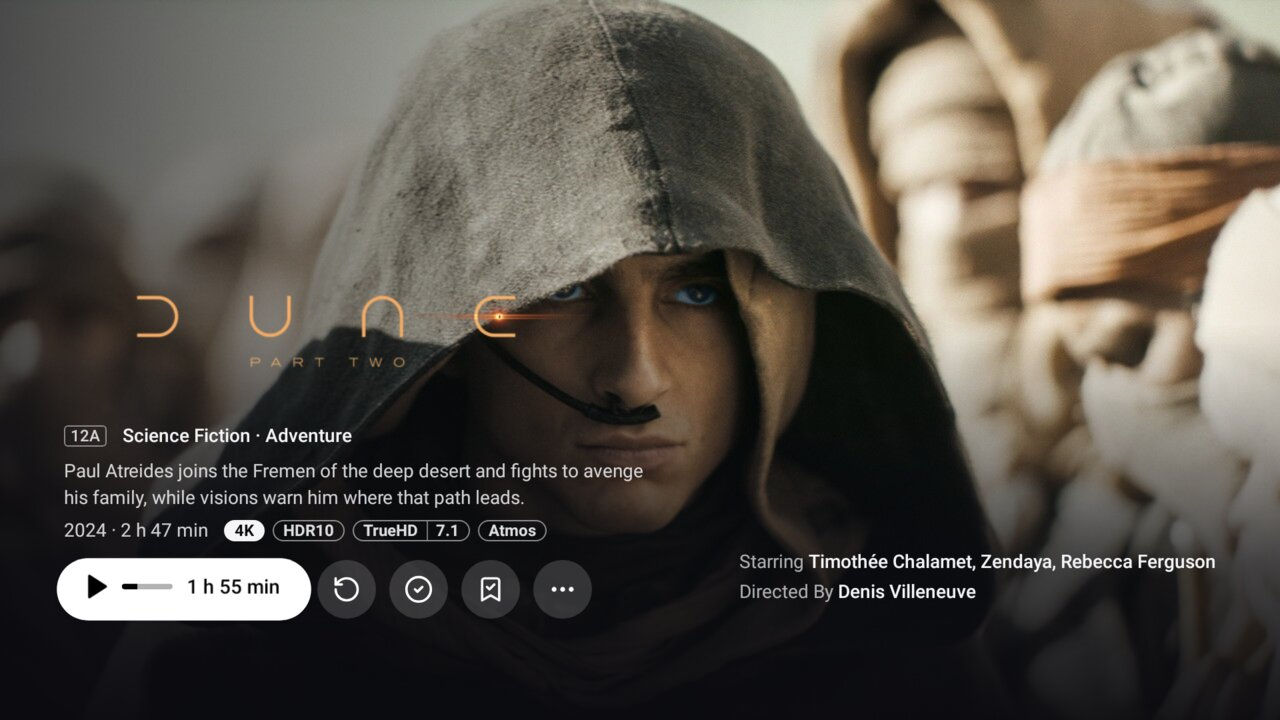
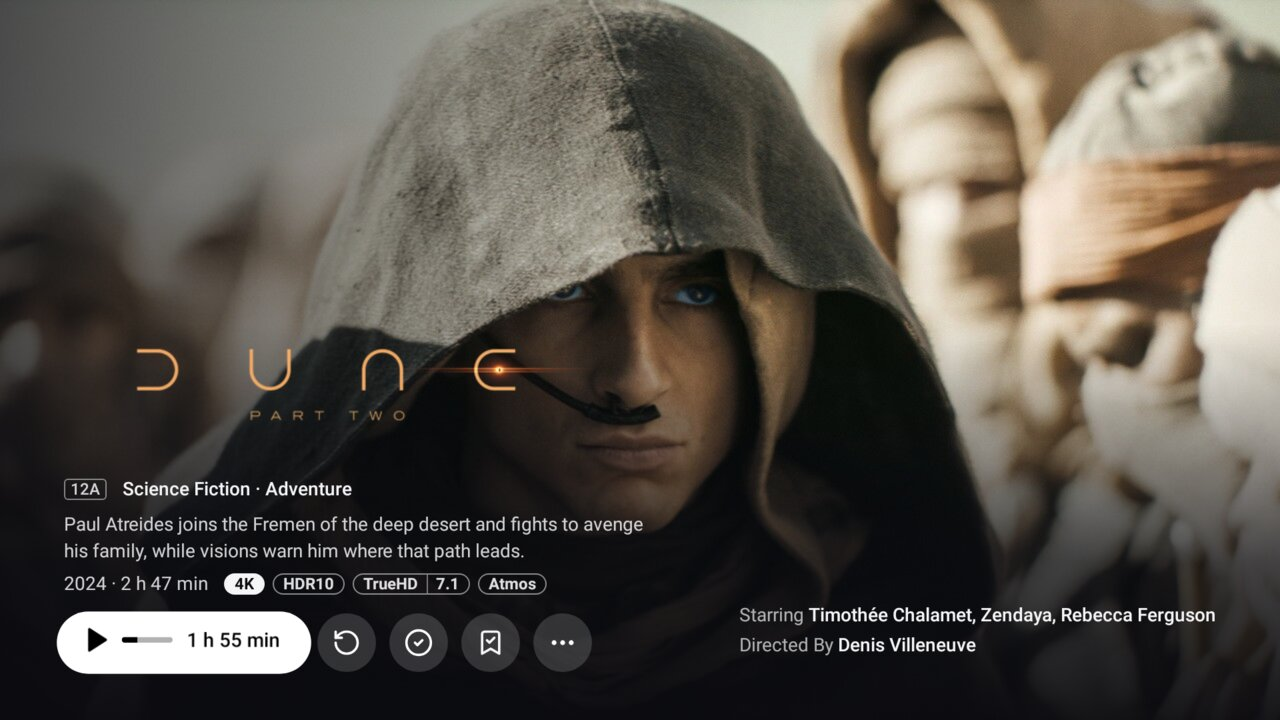
Title page: a film's header takes the full screen height
The buttons now sit low on the artwork as in the owner's reference,
instead of leaving a band of empty gradient under them: the header is
the screen's height rather than the list's (which loses its bottom
padding). Screenshots re-rendered.

diff --git a/app/src/main/java/org/arcmediaserver/android/ui/details/DetailsScreen.kt b/app/src/main/java/org/arcmediaserver/android/ui/details/DetailsScreen.kt
@@ -181,15 +181,12 @@ fun DetailsScreen(
             LazyColumn(Modifier.fillMaxSize(), state = page, contentPadding = PaddingValues(bottom = 40.dp)) {
                 item {
                     Box(
-                        Modifier.fillParentMaxHeight(if (item.isSeries) 0.88f else 1f).onFocusChanged { if (it.hasFocus) scope.launch { page.animateScrollToItem(0) } },
+                        (if (item.isSeries) Modifier.fillParentMaxHeight(0.88f) else Modifier.height(androidx.compose.ui.platform.LocalConfiguration.current.screenHeightDp.dp)).onFocusChanged { if (it.hasFocus) scope.launch { page.animateScrollToItem(0) } },
                         contentAlignment = Alignment.BottomStart,
                     ) {
                         Header(details, onPlay, onOpen, primary, actions, more, onMore = { at -> moreAnchor = at; panel = DetailsPanel.More }, about = about, onAbout = { panel = DetailsPanel.About })
                     }
                 }
-                // A film's artwork fills the whole screen, with nothing below it peeking in (the list's
-                // bottom padding takes this much from the header's height); a show's seasons do show.
-                if (!item.isSeries) item { Spacer(Modifier.height(40.dp)) }
                 if (item.isSeries) {
                     // The seasons show whole while they have focus, so episode names and
                     // details under the pictures aren't cut off at the bottom.

diff --git a/docs/changes/2026-11-16-real-screenshot-titles.md b/docs/changes/2026-11-16-real-screenshot-titles.md
@@ -35,7 +35,7 @@ fetched and never prints the key or request URLs.
 
 ## The film page fills the screen (owner, 16 November, from a photo of another Apple TV app)
 
-- A film's (or episode's) artwork now fills the whole first screen; nothing below peeks in until
+- A film's (or episode's) artwork now fills the whole first screen (the header is the screen's full height, so the buttons sit low as in the photo); nothing below peeks in until
   you move down. A show's page keeps its seasons showing at the foot, as before.
 - Low on the artwork, top to bottom: the clear logo (a little bigger), the age rating box and up to
   three genres, the description, the year and running time with the quality capsules on one line,
